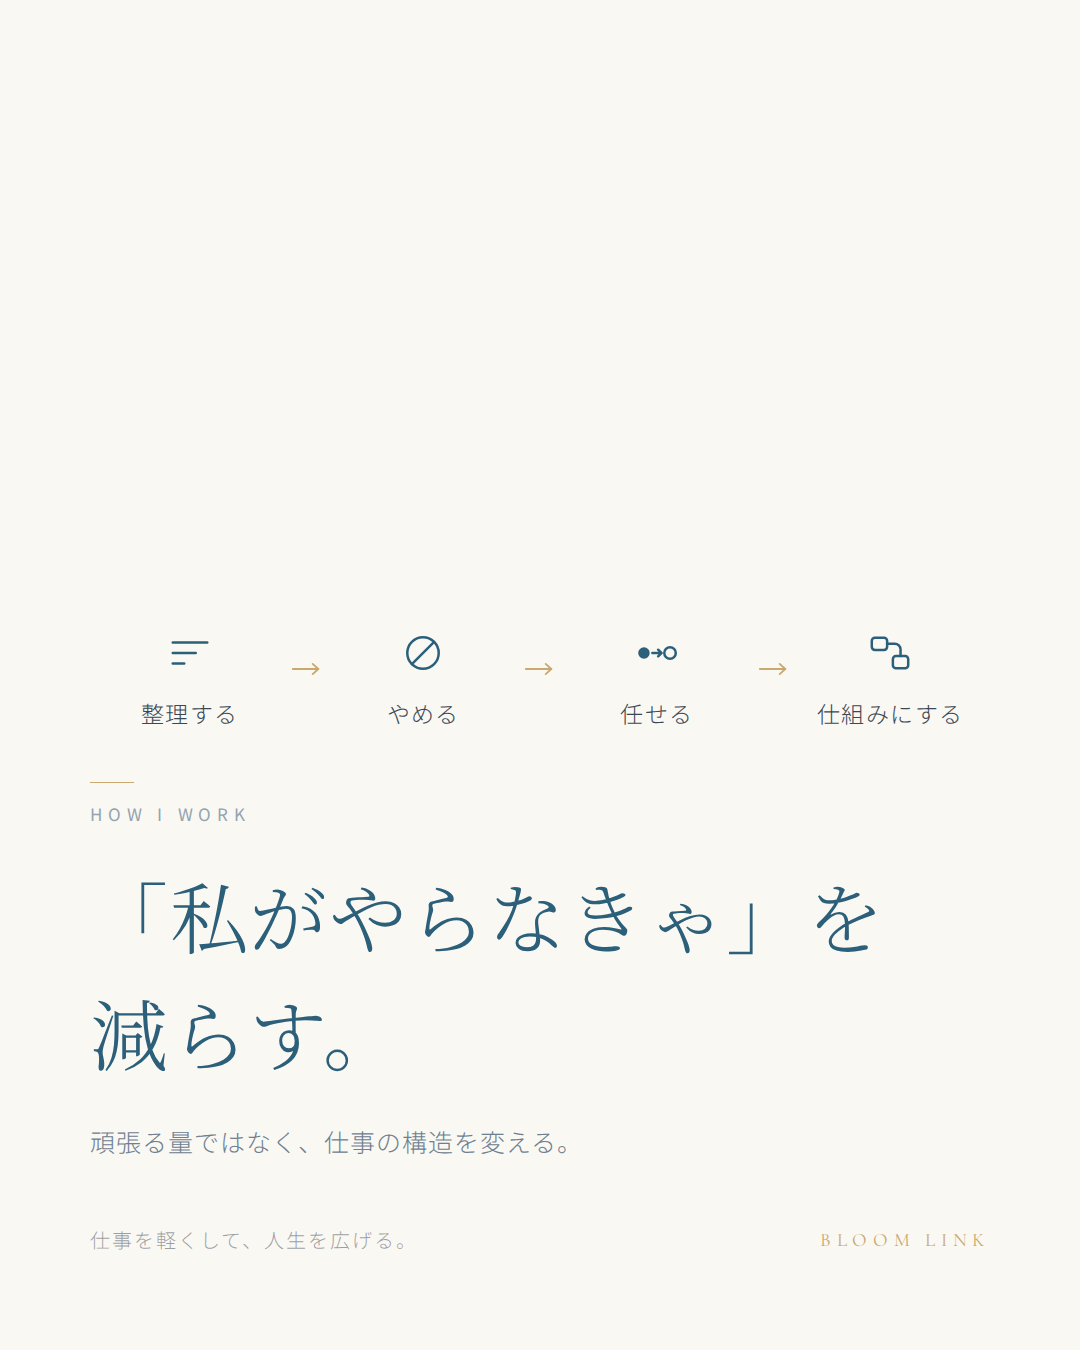
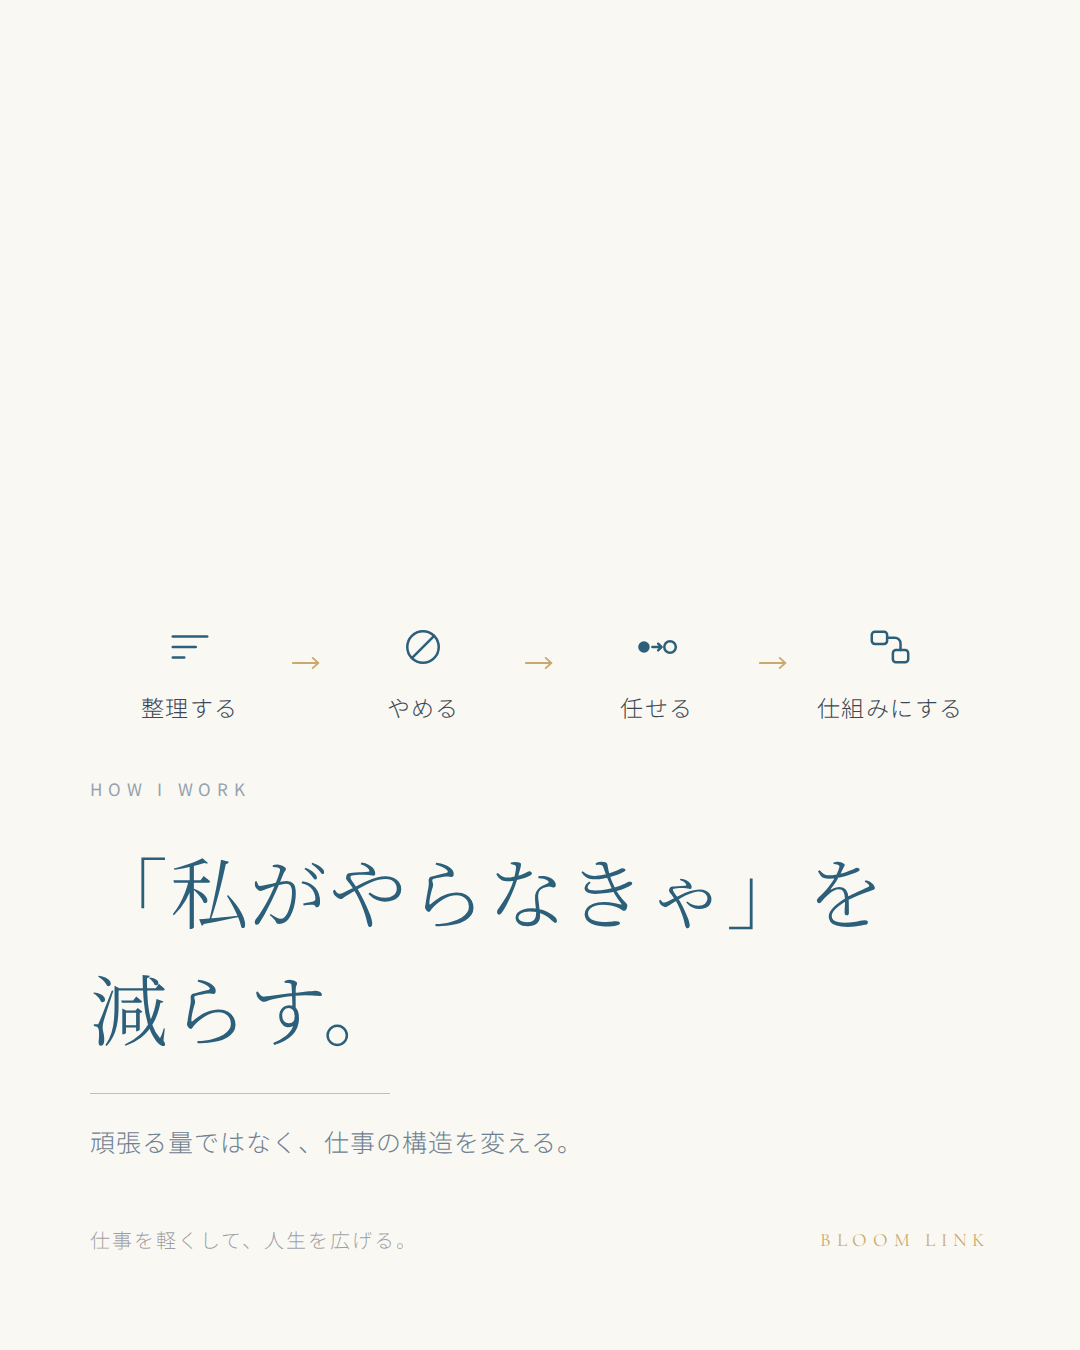
金の罫線を見出しとサブの間へ移し、投稿済みの01に揃えた
投稿された01は「カテゴリー → 見出し → 罫線 → サブ」の順だが、
テンプレートは「罫線 → カテゴリー → 見出し → サブ」になっていた。
01がすでに公開されているので、テンプレート側を01に合わせた。

あわせて、写真なしの回に入れていた薄い罫線を削除した。
金の罫線と役割が重なり、02でカテゴリーの真上に線が2本並んでいた。

Claude-Session: https://claude.ai/code/session_018TyEhHEDE4a9HFdLJk5hvJ

diff --git a/src/instagram9/card.js b/src/instagram9/card.js
@@ -110,8 +110,10 @@ export const CARD_CSS = `
  */
 .ig-label { flex: none; margin-bottom: ${LABEL_GAP}px; }
 .ig-no { font-weight: 300; font-size: 34px; line-height: 1; letter-spacing: 0.18em; color: ${TOKENS.navy}; margin-bottom: 22px; }
-.ig-rule { width: 44px; height: 1px; background: ${TOKENS.gold}; margin-bottom: 18px; }
 .ig-cat { font-size: 17px; font-weight: 400; letter-spacing: 0.34em; color: ${TOKENS.faint}; }
+
+/* 見出しとサブの間に置く。この位置が投稿済みの01と揃っている。 */
+.ig-rule { width: 300px; height: 1px; background: ${TOKENS.gold}; opacity: 0.75; margin: 28px 0 24px; }
 
 /* 写真・数字・余白が入る可変の領域。コピーが長い回は自動でここが縮む */
 .ig-media { position: relative; flex: 1 1 auto; min-height: 0; margin: ${MEDIA_TOP}px 0 ${MEDIA_BOTTOM}px; }
@@ -122,7 +124,7 @@ export const CARD_CSS = `
   line-height: 1.5; letter-spacing: 0.02em; color: ${TOKENS.navy};
 }
 .ig-sub {
-  margin-top: 28px; font-size: 25px; font-weight: 300;
+  font-size: 25px; font-weight: 300;
   line-height: 1.9; letter-spacing: 0.04em; color: ${TOKENS.muted};
 }
 
@@ -142,9 +144,6 @@ export const CARD_CSS = `
   margin-top: 26px; padding-top: 22px; border-top: 1px solid ${TOKENS.line};
   font-size: 21px; letter-spacing: 0.08em; color: ${TOKENS.faint};
 }
-
-/* 02・04 — 写真を使わない回の、控えめな区切り */
-.ig-hair { position: absolute; left: 0; bottom: 0; width: 120px; height: 1px; background: ${TOKENS.line}; }
 
 /* 04 — 構造を変える4手。順番そのものを図で見せる */
 .ig-flow { position: absolute; left: 0; right: 0; bottom: 0; display: flex; align-items: flex-start; }
@@ -198,7 +197,6 @@ const img = (base, file, { focus, style = '' } = {}) =>
 const label = (p, numbers) => `
     <div class="ig-label">
       ${numbers ? `<div class="ig-no ig-latin">${esc(p.no)}</div>` : ''}
-      <div class="ig-rule"></div>
       <div class="ig-cat">${esc(p.category)}</div>
     </div>`
 
@@ -211,7 +209,7 @@ const body = p => `
       <div class="ig-headline" style="font-size:${p.headlineSize}px">
         ${p.headline.map(l => `<div>${esc(l)}</div>`).join('\n        ')}
       </div>
-      ${p.sub ? `<div class="ig-sub">${esc(p.sub)}</div>` : ''}
+      ${p.sub ? `<div class="ig-rule"></div>\n      <div class="ig-sub">${esc(p.sub)}</div>` : ''}
     </div>`
 
 /**
@@ -258,8 +256,8 @@ const VARIANTS = {
     band: true,
   }),
 
-  /** 写真なし。タイポグラフィだけで持たせる型。 */
-  ivory: () => ({ media: '<div class="ig-hair"></div>' }),
+  /** 写真なし。タイポグラフィと余白だけで持たせる型。 */
+  ivory: () => ({}),
 
   /** 構造を変える4手。05の「問い」に対して、こちらは「動作」を横並びで見せる。 */
   flow: p => ({
@@ -309,8 +307,9 @@ export function cardHTML(post, opts = {}) {
 
   // 文字が占める高さ。行数から出すので、コピーを増減しても写真に埋もれない。
   const headlineH = post.headline.length * post.headlineSize * 1.5
-  const subH = post.sub ? 28 + 25 * 1.9 : 0
-  const labelH = (numbers ? 34 + 22 : 0) + 1 + 18 + 24 + LABEL_GAP
+  // サブの前に罫線が入る（28 + 罫線1 + 24 + 行の高さ）
+  const subH = post.sub ? 28 + 1 + 24 + 25 * 1.9 : 0
+  const labelH = (numbers ? 34 + 22 : 0) + 24 + LABEL_GAP
   const footH = 60 + 24
   const bandH = Math.round(TOKENS.marginY + footH + subH + headlineH + labelH + 34)
 

diff --git a/docs/instagram-9-posts.md b/docs/instagram-9-posts.md
@@ -82,16 +82,17 @@ npm run ig:fonts     # 表紙のコピーに新しい漢字を足したときだ
 | キャンバス | 1080 × 1350（4:5） |
 | 余白 | 左右 90px ／ 上下 96px |
 | 番号 | **表紙には入れない**（下記） |
-| カテゴリー | **コピーの直上**・くすみゴールドの罫線の下・17px / トラッキング .34em・**1枚に1つだけ** |
+| カテゴリー | **見出しの直上**・17px / トラッキング .34em・**1枚に1つだけ** |
 | コピー | Noto Serif JP 300 / 74〜84px / 行送り1.5。置き場所は下・上・箱の3種（§5） |
 | サブコピー | 25px / 行送り1.9 |
 | フッター | 「仕事を軽くして、人生を広げる。」＋ BLOOM LINK（くすみゴールド） |
 | フッター（09のみ） | 「Rie」の署名のみ（Italianno）。コピー自体がシリーズの一文なので繰り返さない |
 | 基本色 | IVORY `#FAF8F3` / WHITE / NAVY `#2B5F7A` / CHARCOAL `#3A4754` |
-| アクセント | くすみゴールド `#C9A96E`（上左の罫線・08の数字・BLOOM LINK のみ・少量） |
+| アクセント | くすみゴールド `#C9A96E`（見出しとサブの間の罫線・08の数字・BLOOM LINK のみ・少量） |
 | 写真加工 | `saturate(1.04) brightness(1.03)` のみ。**暗くしない** |
 
-**罫線＋カテゴリー → コピー → サブ → フッター** の順番と間隔は全枚で共通。
+**カテゴリー → 見出し → くすみゴールドの罫線 → サブ → フッター** の順番と間隔は全枚で共通。
+罫線が見出しとサブの間に入るのは、**投稿済みの01に合わせたため**。
 この塊が同じ形をしているから、置き場所を変えても9枚が1つの作品に見える。
 
 レイアウトは絶対座標ではなく縦のフレックスで組んである。

diff --git a/docs/instagram-9-引っ越しセット.md b/docs/instagram-9-引っ越しセット.md
@@ -85,15 +85,18 @@ Rie。40代。
 ### 文字の階層（全枚で共通）
 
 ```
-くすみゴールドの短い罫線（幅44px）
 CATEGORY（英字・小さく・字間を開ける）
         ↓ 30px
 見出し（明朝・2行）
         ↓ 28px
+くすみゴールドの罫線（幅300px・不透明度75%）
+        ↓ 24px
 サブコピー（1行）
         ↓ 60px
 仕事を軽くして、人生を広げる。          BLOOM LINK
 ```
+
+罫線が**見出しとサブの間**に入るのが要点。投稿済みの01がこの形。
 
 **この塊の形と間隔は9枚すべて同じ。** だから置き場所を変えても1つの作品に見えます。
 09だけは、フッターが「Rie」の署名のみになります（見出しがシリーズの一文そのものなので繰り返さない）。
